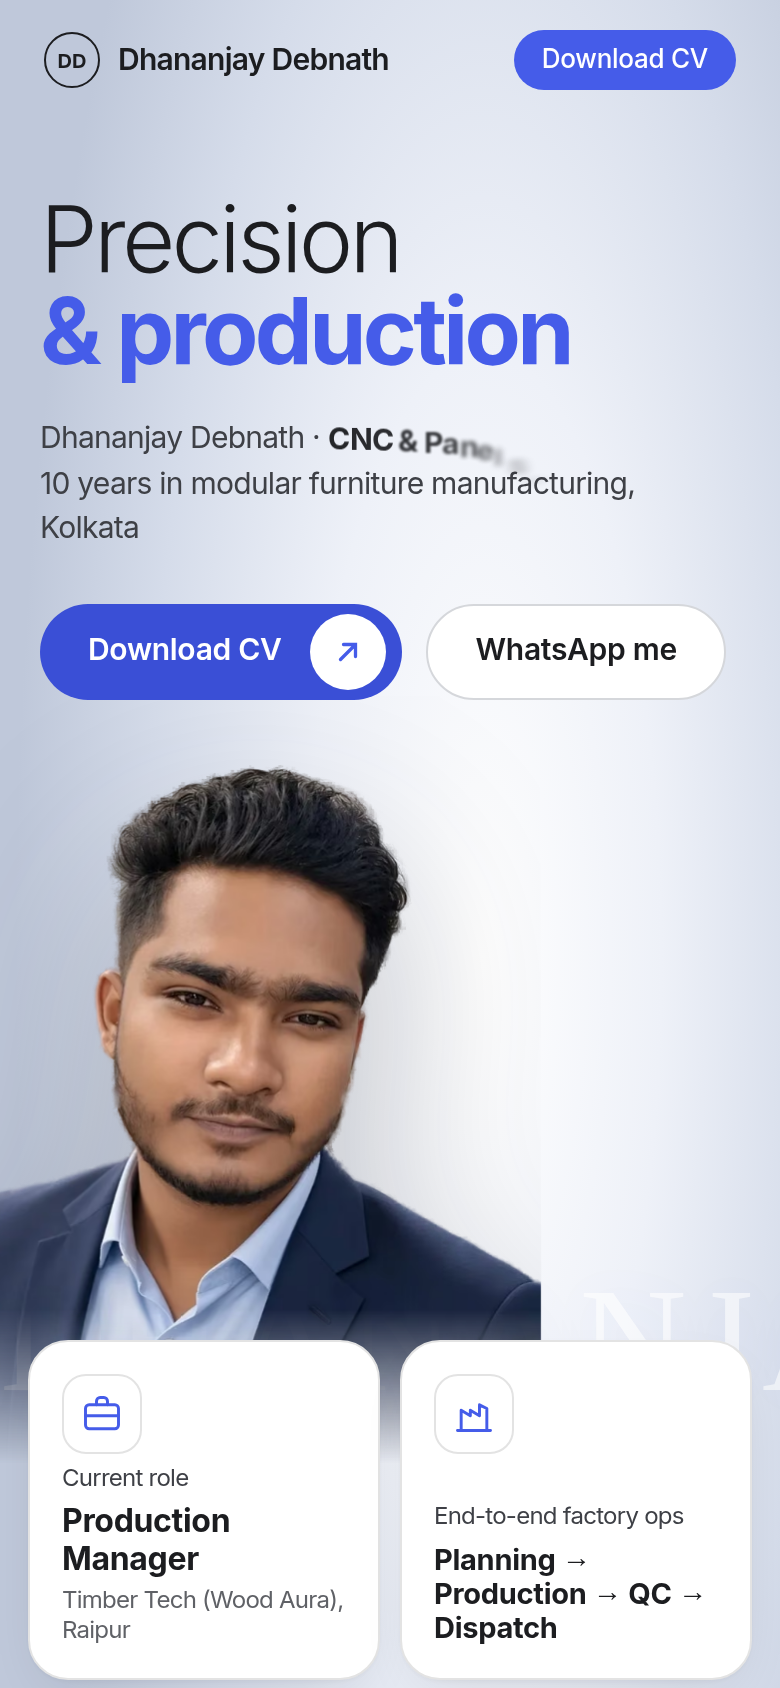
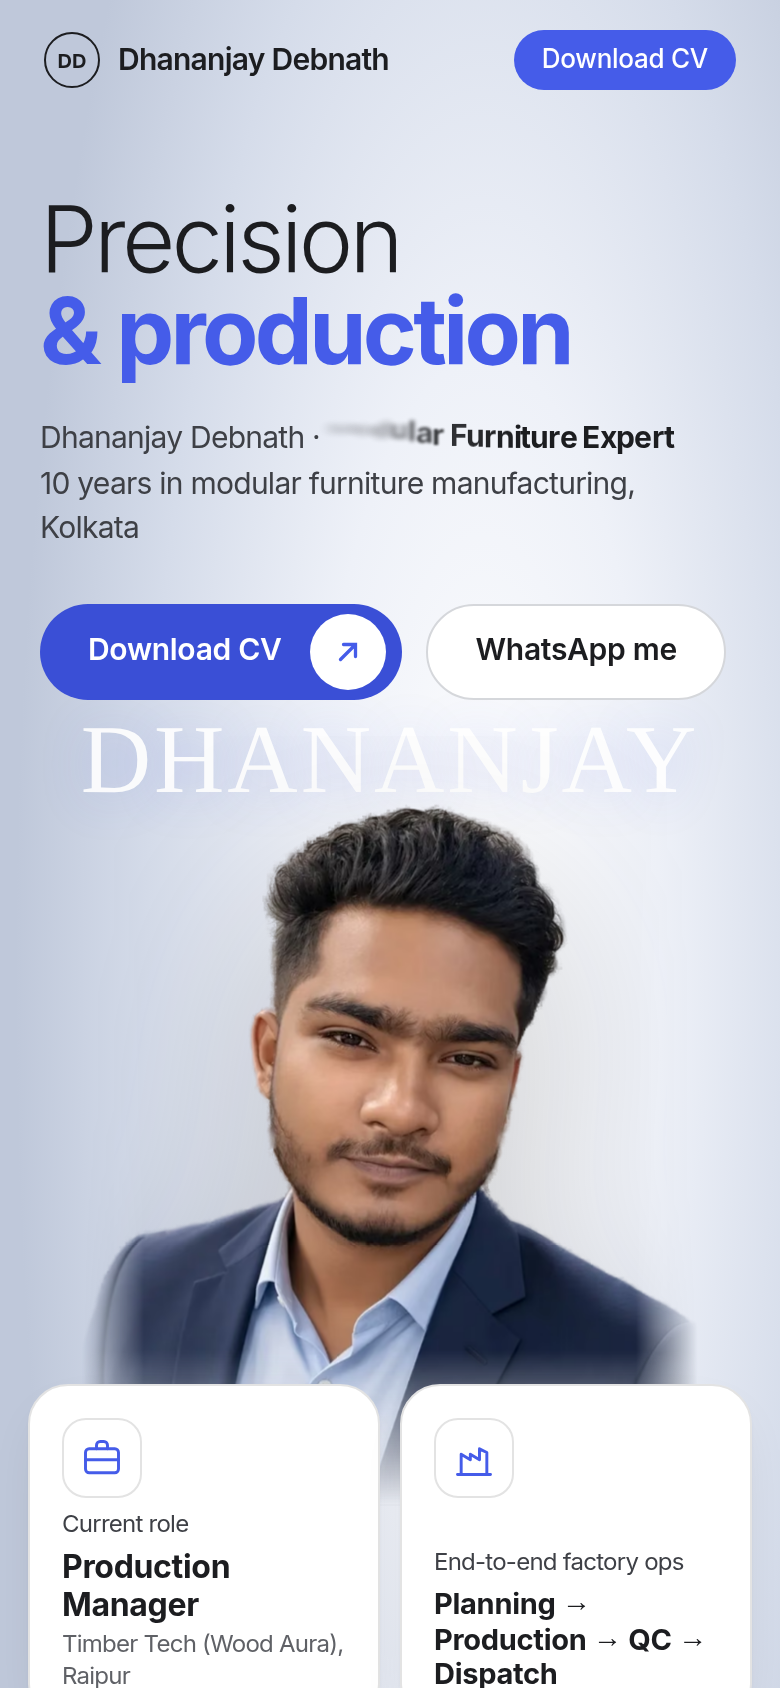
Mobile hero: centre full photo, soft edges, fit DHANANJAY

Changed region(s): [[0.0, 0.4313, 0.9846, 1.0], [0.4308, 0.2464, 0.8615, 0.2773]]

diff --git a/index.html b/index.html
@@ -300,7 +300,7 @@ section.alt .card,section.alt .job .box,section.alt .mc,#credentials .card{backg
 .cgs li{padding-top:calc((3 - var(--n))*48px)}.cgb{background:#26272B;border:1px solid #34353A;border-top:3px solid var(--bl);border-radius:16px;padding:16px;min-height:calc(150px + var(--n)*48px);display:flex;flex-direction:column;gap:4px;position:relative}
 .cgs li:last-child .cgb{background:#3A4FD6;border-color:#3A4FD6}.cgs li:last-child .cgy,.cgs li:last-child .cgc{color:#fff}
 .cgy{font-size:12px;font-weight:600;color:#8E9DFF}.cgb b{font-size:16px;line-height:1.25}.cgc{font-size:13px;color:#B9BABD;line-height:1.35}.cgb i{font-style:normal;margin-top:auto;font-size:28px;font-weight:700;letter-spacing:-.03em}
-@media(max-width:760px){.cgs{grid-template-columns:1fr;gap:10px}.cgs li{padding:0 0 0 calc(var(--n)*14px)}.cgb{min-height:0;flex-direction:row;flex-wrap:wrap;align-items:baseline;gap:2px 10px}.cgb b{flex:1 1 100%}.cgb i{margin:0 0 0 auto;font-size:20px}.cgy{flex:1 1 100%}.cg{border-radius:50% 50% 0 0/30px 30px 0 0}.cgs{display:flex;flex-direction:column-reverse}}.hc{grid-template-columns:150px 170px 230px 170px!important}.c4{height:170px;display:flex;flex-direction:column;justify-content:flex-end}.c4 b{font-size:14.5px}@media(max-width:1250px){.hc{grid-template-columns:140px 150px 210px 150px!important}.hp{right:20%}}@media(max-width:900px){.hc{grid-template-columns:1fr 1fr!important}.c4{order:3;height:auto;grid-column:1/-1;flex-direction:row;align-items:center;gap:12px;flex-wrap:wrap}.c4 .lic{margin:0}.c4 small{flex:1 1 60%}.c4 b{flex:1 1 100%}.c3{order:4}}</style>
+@media(max-width:760px){.cgs{grid-template-columns:1fr;gap:10px}.cgs li{padding:0 0 0 calc(var(--n)*14px)}.cgb{min-height:0;flex-direction:row;flex-wrap:wrap;align-items:baseline;gap:2px 10px}.cgb b{flex:1 1 100%}.cgb i{margin:0 0 0 auto;font-size:20px}.cgy{flex:1 1 100%}.cg{border-radius:50% 50% 0 0/30px 30px 0 0}.cgs{display:flex;flex-direction:column-reverse}}.hc{grid-template-columns:150px 170px 230px 170px!important}.c4{height:170px;display:flex;flex-direction:column;justify-content:flex-end}.c4 b{font-size:14.5px}@media(max-width:1250px){.hc{grid-template-columns:140px 150px 210px 150px!important}.hp{right:20%}}@media(max-width:900px){.hc{grid-template-columns:1fr 1fr!important}.c4{order:3;height:auto;grid-column:1/-1;flex-direction:row;align-items:center;gap:12px;flex-wrap:wrap}.c4 .lic{margin:0}.c4 small{flex:1 1 60%}.c4 b{flex:1 1 100%}.c3{order:4}}@media(max-width:900px){.hp{right:auto!important;left:auto!important;margin-left:auto!important;margin-right:auto!important;width:min(78vw,400px)!important}.bgt{left:0;right:0;font-size:12.5vw!important;letter-spacing:.03em!important;overflow:visible;position:relative!important;order:2;top:auto!important;bottom:auto!important;margin:6px 0 -22px;color:#fff;opacity:.9!important;text-shadow:0 2px 24px rgba(69,92,233,.25)}.hp{margin-top:0!important}.hp img{-webkit-mask-image:linear-gradient(#000 80%,transparent),linear-gradient(90deg,transparent,#000 10%,#000 90%,transparent);mask-image:linear-gradient(#000 80%,transparent),linear-gradient(90deg,transparent,#000 10%,#000 90%,transparent);-webkit-mask-composite:source-in;mask-composite:intersect}}</style>
 <script type="application/ld+json">
 {"@context":"https://schema.org","@type":"Person","name":"Dhananjay Debnath","alternateName":"Sanu Debnath","jobTitle":"Production Manager","description":"Production Manager with 10 years of hands-on experience in modular furniture manufacturing.","url":"https://dhananjay-portfolio.pages.dev/","image":"https://dhananjay-portfolio.pages.dev/assets/img/dd-800.webp","email":"mailto:debnathofficial07@gmail.com","telephone":"+91-7797691585","address":{"@type":"PostalAddress","addressLocality":"Kolkata","addressRegion":"West Bengal","addressCountry":"IN"},"worksFor":{"@type":"Organization","name":"Timber Tech (Wood Aura)"},"knowsLanguage":["Bengali","Hindi","English"],"knowsAbout":["Modular furniture manufacturing","Biesse CNC boring","Beam saw","Panel saw","Edge banding","Spazio 3D","Naadi 3D design","AutoCAD 2D","Production Planning & Control","Bill of Materials","Cut list optimization","Quality control"],"hasCredential":[{"@type":"EducationalOccupationalCredential","name":"Biesse CNC Operation & Preventive Maintenance"},{"@type":"EducationalOccupationalCredential","name":"Spazio 3D Cabinet Design & Optimization"},{"@type":"EducationalOccupationalCredential","name":"Naadi 3D design software training (2026)"}]}
 </script>
